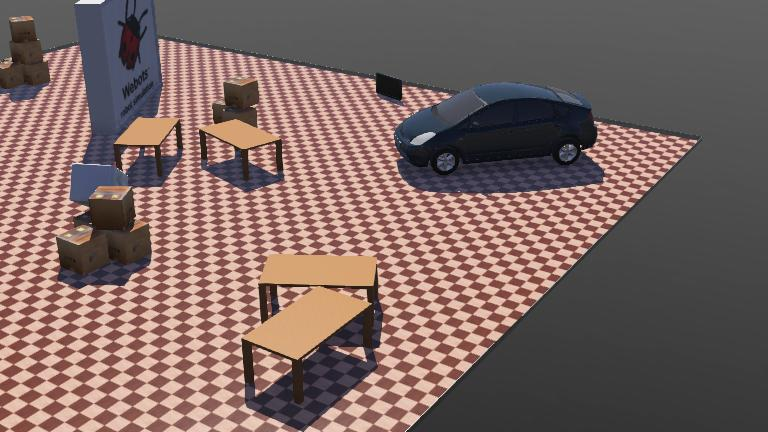
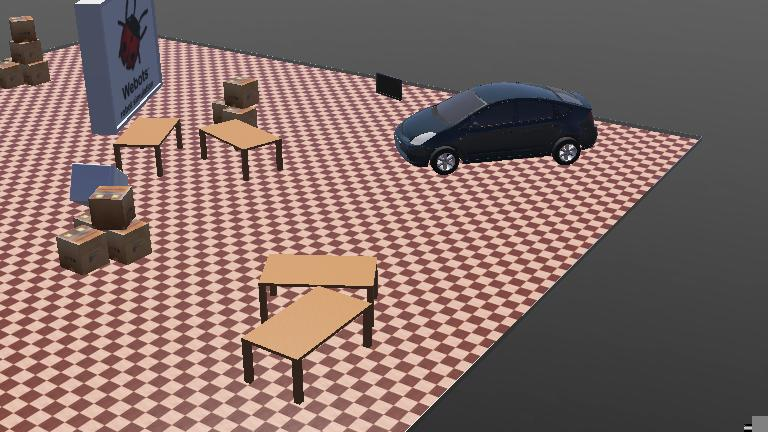
updated control.py

diff --git a/controllers/drone_controller/control.py b/controllers/drone_controller/control.py
@@ -5,14 +5,15 @@ def sign(x):
     """Return the sign of x: 1 if positive, -1 if negative, 0 if zero."""
     return 1 if x > 0 else (-1 if x < 0 else 0)
 
-class Control(Robot):
-    def __init__(self, timestep):
-        super().__init__()
+class Control():
+    def __init__(self, robot, timestep):
+        self.robot = robot
+        
         # motors
-        self.fl_motor = Robot.getDevice("front left propeller")
-        self.fr_motor = Robot.getDevice("front right propeller")
-        self.rl_motor = Robot.getDevice("rear left propeller")
-        self.rr_motor = Robot.getDevice("rear right propeller")
+        self.fl_motor = self.robot.getDevice("front left propeller")
+        self.fr_motor = self.robot.getDevice("front right propeller")
+        self.rl_motor = self.robot.getDevice("rear left propeller")
+        self.rr_motor = self.robot.getDevice("rear right propeller")
         self.motors = [self.fl_motor, self.fr_motor, self.rl_motor, self.rr_motor]
         
         self.timestep = timestep
@@ -22,15 +23,15 @@ class Control(Robot):
         self.camera_pitch_motor = self.robot.getDevice("camera pitch")
         self.camera_roll_motor.setPosition(0)
         self.camera_pitch_motor.setPosition(0)
-        self.camera_roll_motor.enable(self.timestep)
-        self.camera_pitch_motor.enable(self.timestep)
+        self.camera_roll_motor.enableForceFeedback(self.timestep)
+        self.camera_pitch_motor.enableForceFeedback(self.timestep)
         
         # sensors
-        self.imu = self.getDevice("inertial unit")
+        self.imu = self.robot.getDevice("inertial unit")
         self.imu.enable(timestep)
-        self.gps = self.getDevice("gps")
+        self.gps = self.robot.getDevice("gps")
         self.gps.enable(timestep)
-        self.gyro = self.getDevice("gyro")
+        self.gyro = self.robot.getDevice("gyro")
         self.gyro.enable(timestep)
             
         # initalising motors
@@ -53,6 +54,7 @@ class Control(Robot):
         
         
     def process_signal(self, vel):
+        print(f"these are the vels: {vel}")
         """receive 4 velocities for each propeller"""
         for motor, v in zip(self.motors, vel):
             # motor.setPosition(float('inf'))
@@ -93,8 +95,10 @@ class Control(Robot):
         
         return [signs[i] * (vel[i] + corrections[i]) for i in range(4)]
         
-     def STOP(self):
-         """emergency STOP ALL MOTORS"""
-         for motor in self.motors:
+        
+    def STOP(self):
+        """emergency STOP ALL MOTORS"""
+        for motor in self.motors:
             motor.setPosition(float('inf'))
             motor.setVelocity(1.0)
+        

diff --git a/controllers/drone_controller/drone_controller.py b/controllers/drone_controller/drone_controller.py
@@ -17,8 +17,8 @@
 from controller import Robot, Camera, LED
 
 from control import Control
-from perception import Perception
-from path_planner import PathPlanner
+# from perception import Perception
+# from path_planner import PathPlanner
 
 
 class DroneController():
@@ -31,8 +31,8 @@ class DroneController():
         self.front_right_led = self.robot.getDevice("front right led")
         
         self.control = Control(self.robot, self.timestep)
-        self.perception = Perception(self.robot, self.timestep)
-        self.path_planner = PathPlanner(self.robot, self.timestep)
+        # self.perception = Perception(self.robot, self.timestep)
+        # self.path_planner = PathPlanner(self.robot, self.timestep)
 
         print("Drone Controller initialised successfully")
 
@@ -42,9 +42,9 @@ class DroneController():
             time = self.robot.getTime()  # in seconds
             
             # controlling motors
-            start_state = self.perception.get_state_vector()
-            action = self.path_planner.get_best_action(start_state, num_steps=10)
-
+            # start_state = self.perception.get_state_vector()
+            # action = self.path_planner.get_best_action(start_state, num_steps=10)
+            action = [1, 0, 0, 1]
             velocities = self.control.stabilise(self.timestep, action)
             self.control.process_signal(velocities)  # this should change propellers
             
